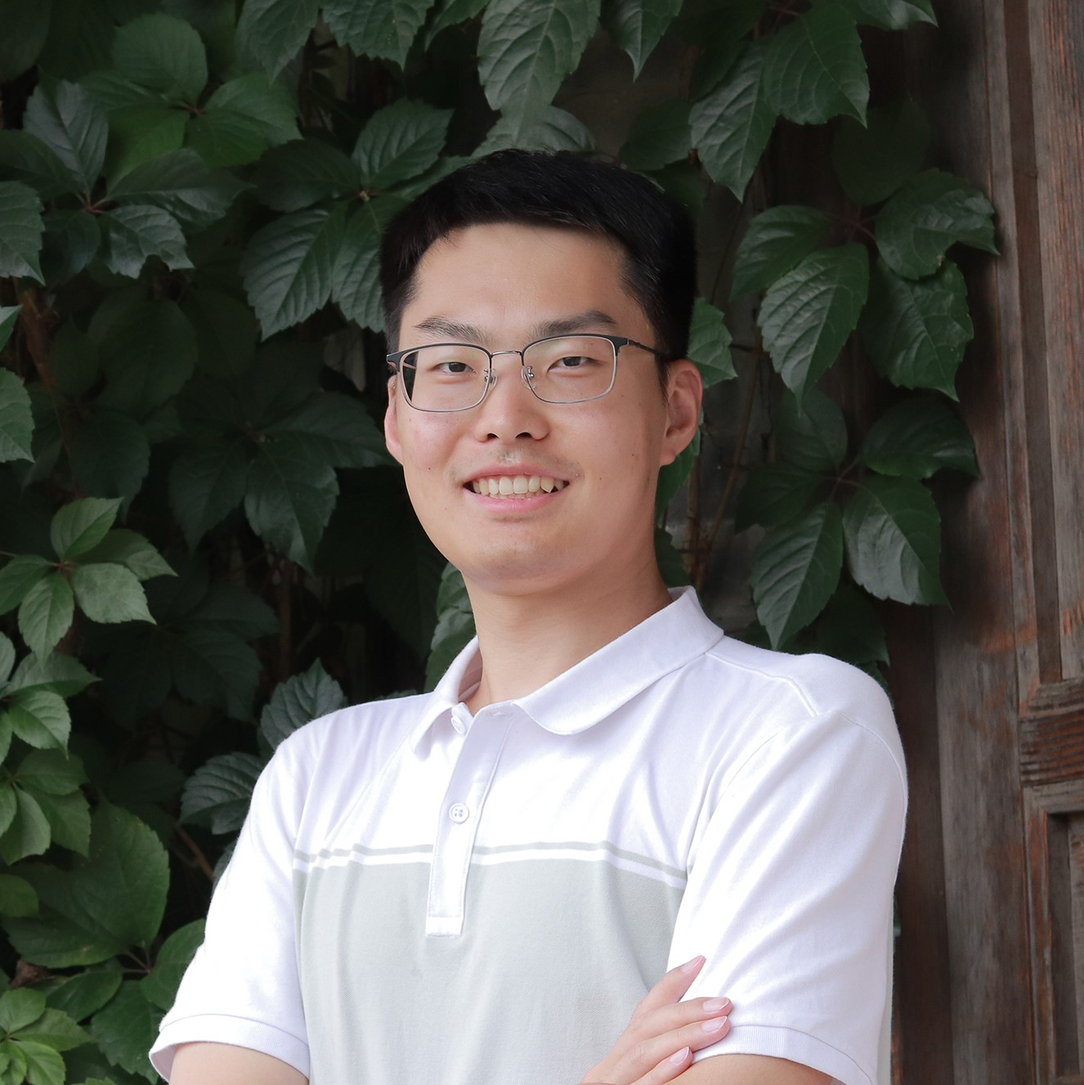
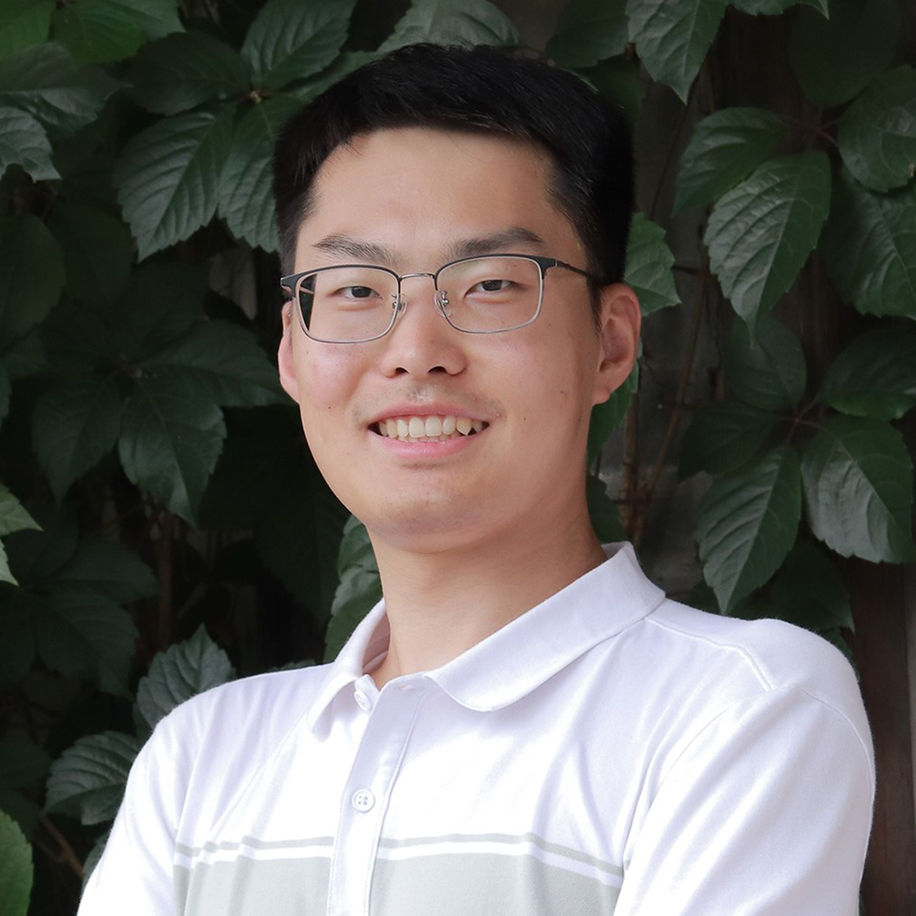
Refine academic homepage layout and profile content

diff --git a/app/globals.css b/app/globals.css
@@ -6,18 +6,28 @@
   /* Typography controls — edit these values to resize the site globally. */
   --font-sans: Arial, Helvetica, sans-serif;
   --font-serif: Georgia, 'Times New Roman', serif;
-  --type-wordmark: 18px;
-  --type-eyebrow: 12px;
-  --type-hero: clamp(52px, 7.1vw, 112px);
-  --type-hero-intro: clamp(18px, 1.55vw, 24px);
-  --type-affiliation: clamp(16px, 1.3vw, 19px);
-  --type-section-title: clamp(36px, 4.4vw, 64px);
-  --type-story-index: 19px;
-  --type-story-tag: 14px;
-  --type-story-body: 19px;
-  --type-publication-title: clamp(19px, 2vw, 28px);
+  --type-wordmark: clamp(18px, 1.25vw, 24px);
+  --type-nav: 16px;
+  --type-eyebrow: clamp(16px, 1.25vw, 20px);
+  --type-hero: clamp(38px, 4vw, 84px);
+  --type-hero-intro: clamp(12px, 1.2vw, 24px);
+  --type-affiliation: clamp(16px, 1.3vw, 24px);
+  --type-research-card-title: clamp(18px, 1.25vw, 36px);
+  --type-section-title: clamp(28px, 3.1vw, 48px);
+  --type-story-index: clamp(19px, 1.25vw, 25px);
+  --type-story-tag: clamp(16px, 1.25vw, 22px);
+  --type-story-body: clamp(19px, 1.25vw, 25px);
+  --type-publication-title: clamp(17px, 1.55vw, 23px);
   --type-publication-authors: 16px;
-  --type-news: clamp(17px, 1.6vw, 22px);
+  --type-news: clamp(15px, 1.25vw, 18px);
+  --type-news-date: clamp(15px, 1.25vw, 18px);
+  --type-contact-title: clamp(34px, 4.3vw, 60px);
+  /* Home-page layout controls — adjust these to reposition the first screen. */
+  --hero-padding-x: clamp(30px, 10vw, 140px);
+  --hero-padding-y: clamp(34px, 5vh, 48px);
+  --hero-column-gap: clamp(20px, 3vw, 40px);
+  --hero-profile-width: 360px;
+  --hero-portrait-width: 280px;
   --background: #f4f7f6;
   --foreground: #102c39;
   --card: #ffffff;
@@ -47,49 +57,62 @@ body { margin: 0; background: var(--background); color: var(--foreground); font-
 a { color: inherit; text-decoration: none; }
 .site-header { position: sticky; top: 0; z-index: 20; height: 76px; display: grid; grid-template-columns: 1fr auto 1fr; align-items: center; padding: 0 clamp(24px, 5vw, 80px); background: color-mix(in srgb, var(--background) 90%, transparent); border-bottom: 1px solid var(--border); backdrop-filter: blur(18px); }
 .wordmark { display: flex; align-items: center; gap: 11px; font-family: var(--font-serif); font-size: var(--type-wordmark); font-weight: 700; }
-.wordmark > span:first-child { display: grid; place-items: center; width: 34px; height: 34px; border-radius: 50%; background: var(--foreground); color: white; font-family: Arial, sans-serif; font-size: 12px; letter-spacing: .08em; }
+.wordmark > span:first-child { display: grid; place-items: center; width: 34px; height: 34px; border-radius: 50%; background: var(--foreground); color: white; font-family: Arial, sans-serif; font-size: 15px; letter-spacing: .08em; }
 .wordmark .wordmark-name { display: inline; width: auto; height: auto; background: transparent; color: var(--foreground); font: inherit; letter-spacing: 0; }
-.wordmark .wordmark-name em { color: #60767b; font-family: Arial, sans-serif; font-size: 13px; font-style: normal; font-weight: 500; }
-nav { display: flex; gap: 30px; font-size: 13px; font-weight: 700; }
+.wordmark .wordmark-name em { color: #60767b; font-family: Arial, sans-serif; font-size: 18px; font-style: normal; font-weight: 500; }
+nav { display: flex; gap: 30px; font-size: var(--type-nav); font-weight: 700; }
 nav a:hover { color: var(--primary); }
 .language-toggle { justify-self: end; display: flex; align-items: center; gap: 7px; padding: 9px 13px; border: 1px solid var(--border); border-radius: 999px; color: var(--foreground); background: transparent; cursor: pointer; font-weight: 700; }
-.hero { min-height: calc(100vh - 76px); display: grid; grid-template-columns: minmax(0, 1fr) minmax(180px, 235px); align-items: center; gap: clamp(42px, 7vw, 110px); padding: 70px clamp(24px, 7vw, 112px); overflow: hidden; }
-.hero-copy { max-width: 820px; }
-.eyebrow { margin: 0 0 20px; color: var(--primary); font-size: var(--type-eyebrow); font-weight: 800; letter-spacing: .16em; text-transform: uppercase; }
-h1 { margin: 0; font-family: var(--font-serif); font-size: var(--type-hero); font-weight: 400; line-height: .92; letter-spacing: -.055em; }
+.hero { height: calc(100svh - 76px); min-height: 620px; display: grid; grid-template-columns: minmax(0, 1fr) minmax(330px, var(--hero-profile-width)); align-items: stretch; gap: var(--hero-column-gap); padding: var(--hero-padding-y) var(--hero-padding-x); overflow: hidden; }
+.hero:has(.hero-bio[open]) { height: auto; min-height: calc(100svh - 76px); overflow: visible; }
+.hero-copy { position: relative; display: flex; flex-direction: column; min-width: 0; max-width: 920px; }
+.eyebrow { margin: 0px 0px 40px ; color: var(--primary); font-size: var(--type-eyebrow); font-weight: 700; letter-spacing: .16em; text-transform: uppercase; }
+.hero .eyebrow { white-space: nowrap; }
+h1 { margin: 0; font-family: var(--font-serif); font-size: var(--type-hero); font-weight: 520; line-height: 1.15; letter-spacing: -.055em; }
 h1 span { display: block; color: var(--primary); }
-.hero-intro { max-width: 660px; margin: 34px 0 0; color: #48656c; font-family: var(--font-serif); font-size: var(--type-hero-intro); line-height: 1.55; }
-.hero-actions { display: flex; flex-wrap: wrap; gap: 12px; margin-top: 34px; }
-.button { display: inline-flex; align-items: center; gap: 9px; padding: 14px 19px; border: 1px solid var(--foreground); border-radius: 3px; font-size: 13px; font-weight: 800; }
+.hero-intro { max-width: 820px; margin: 26px 0 0; color: #48656c; font-family: var(--font-serif); font-size: clamp(14px, 1.05vw, 18px); line-height: 1.48; }
+.hero-intro > p { margin: 0; }
+.hero-bio { margin-top: 14px; font-family: var(--font-sans); }
+.hero-bio summary { display: inline-flex; align-items: center; gap: 9px; color: var(--primary); font-size: 12px; font-weight: 800; cursor: pointer; list-style: none; border-bottom: 1px solid currentColor; padding-bottom: 3px; }
+.hero-bio summary::-webkit-details-marker { display: none; }
+.hero-bio summary span { font-size: 17px; line-height: 1; transition: transform .2s ease; }
+.hero-bio[open] summary span { transform: rotate(45deg); }
+.hero-bio-panel { width: min(100%, 820px); margin-top: 20px; padding: 20px 0 4px; border-top: 1px solid var(--border); }
+.hero-bio-panel p { margin: 0; color: #3f5d64; font-family: var(--font-serif); font-size: 15px; line-height: 1.58; }
+.hero-bio-panel p + p { margin-top: 13px; }
+.hero-actions { display: flex; flex-wrap: wrap; gap: 12px; margin-top: 38px; }
+.button { display: inline-flex; align-items: center; gap: 9px; padding: 14px 19px; border: 1px solid var(--foreground); border-radius: 3px; font-size: 17px; font-weight: 800; }
 .button.primary { background: var(--foreground); color: white; }
 .button.secondary:hover { background: var(--secondary); }
-.affiliation { margin-top: 38px; color: #3e5d64; font-size: var(--type-affiliation); font-weight: 700; line-height: 1.5; }
-.top-links { display: flex; flex-wrap: wrap; gap: 11px 22px; margin-top: 19px; }
-.top-links a { color: var(--primary); font-size: 12px; font-weight: 800; border-bottom: 1px solid transparent; }
+.affiliation { display: flex; flex-direction: column; align-items: flex-start; margin: 50px 0 0; color: #3e5d64; font-size: var(--type-affiliation); font-weight: 700; line-height: 1.5; }
+.affiliation span { white-space: nowrap; }
+.affiliation strong { display: block; margin-top: 12px; color: #294d56; font-size: inherit; font-weight: 800; }
+.top-links { display: flex; flex-wrap: wrap; gap: 11px 22px; margin-top: auto; padding-bottom: 1px; }
+.top-links a { color: var(--primary); font-size: 14px; font-weight: 800; border-bottom: 1px solid transparent; }
 .top-links a:hover { border-color: currentColor; }
-.hero-portrait { position: relative; justify-self: end; width: min(100%, 235px); }
-.portrait-frame { position: relative; padding: 14px 14px 0; border: 1px solid var(--border); background: #dce8e7; }
+.hero-portrait { justify-self: end; display: flex; flex-direction: column; width: min(100%, var(--hero-profile-width)); min-width: 0; padding-top: 110px; transform: none; }
+.portrait-frame { position: relative; width: var(--hero-portrait-width); padding: 7px 7px 0; border: 1px solid var(--border); background: #dce8e7; align-self: center; margin-left: -60px}
 .portrait-frame::before { content: ''; position: absolute; inset: -22px 22px 22px -22px; border: 1px solid #b8cbc8; z-index: -1; }
-.portrait-frame img { display: block; width: 100%; aspect-ratio: 1 / 1.12; object-fit: cover; object-position: center 24%; filter: saturate(.9) contrast(1.02); }
-.research-note { position: absolute; right: -20px; bottom: -42px; width: 190px; padding: 17px; background: #0e3440; color: white; box-shadow: 0 22px 55px rgba(13,50,60,.2); }
-.research-note span { color: #93bfc2; font-size: 10px; letter-spacing: .14em; text-transform: uppercase; }
-.research-note strong { display: block; margin-top: 8px; font-family: Georgia, serif; font-size: 25px; font-weight: 400; }
-.research-note p { margin: 5px 0 0; color: #d5e7e7; font-size: 12px; line-height: 1.5; }
-.research-arc { padding: 110px clamp(24px, 7vw, 112px) 130px; background: #0b2a35; color: #eff7f6; }
+.portrait-frame img { display: block; width: 100%; aspect-ratio: 1 / 1; object-fit: cover; object-position: center 24%; filter: saturate(.95) contrast(1.02); }
+.research-arc { min-height: calc(100svh - 76px); display: flex; flex-direction: column; justify-content: center; padding: clamp(58px, 8vh, 90px) clamp(24px, 7vw, 112px); background: #0b2a35; color: #eff7f6; }
 .research-arc .eyebrow { color: #8fc5c8; }
-.section-heading { display: grid; grid-template-columns: 1fr 2fr; align-items: start; gap: 32px; margin-bottom: 68px; }
-.section-heading h2 { max-width: 760px; margin: 0; font-family: Georgia, serif; font-size: clamp(36px, 4.8vw, 68px); font-weight: 400; line-height: 1.05; letter-spacing: -.035em; }
-.arc-grid { display: grid; grid-template-columns: repeat(4, 1fr); gap: 0; margin: 0; padding: 0; list-style: none; border-top: 1px solid #3b5861; }
-.arc-grid li { min-height: 260px; padding: 24px 28px 30px 0; border-right: 1px solid #3b5861; }
+.section-heading { display: grid; grid-template-columns: 1fr 2fr; align-items: start; gap: 32px; margin-bottom: clamp(38px, 6vh, 58px); }
+.section-heading h2 { max-width: 900px; margin: 0; font-family: Georgia, serif; font-size: var(--type-section-title); font-weight: 400; line-height: 1.08; letter-spacing: -.03em; white-space: nowrap; }
+.arc-grid { display: grid; grid-template-columns: repeat(4, minmax(0, 1fr)); gap: 0; margin: 0; padding: 0; list-style: none; border-top: 1px solid #3b5861; }
+.arc-grid li { min-width: 0; min-height: 230px; padding: 24px 24px 26px; border-right: 1px solid #3b5861; }
+.arc-grid li:first-child { padding-left: 0; }
 .arc-grid li + li { padding-left: 28px; }
 .arc-grid li:last-child { border-right: 0; }
 .arc-grid span { color: #d3a269; font-size: 12px; font-weight: 800; }
-.arc-grid h3 { margin: 70px 0 14px; font-family: Georgia, serif; font-size: 25px; font-weight: 400; }
+.arc-grid h3 { min-height: 2.5em; margin: 54px 0 14px; font-family: Georgia, serif; font-size: var(--type-research-card-title); font-weight: 700; line-height: 1.25; letter-spacing: -.015em; text-wrap: balance; }
 .arc-grid p { margin: 0; color: #adc2c5; font-size: 14px; line-height: 1.65; }
 @media (max-width: 900px) {
   .site-header { grid-template-columns: 1fr auto; } nav { display: none; }
-  .hero { grid-template-columns: 1fr; padding-top: 56px; padding-bottom: 110px; }
-  .hero-portrait { justify-self: center; width: min(82vw, 430px); margin-top: 20px; }
+  .hero { height: auto; min-height: calc(100svh - 76px); grid-template-columns: 1fr; padding-top: 56px; padding-bottom: 80px; overflow: visible; }
+  .hero-portrait { justify-self: center; width: min(82vw, 390px); margin-top: 20px; }
+  .hero .eyebrow { white-space: normal; }
+  .top-links { margin-top: 24px; }
+  .hero-bio-panel { position: static; width: 100%; max-height: none; margin-top: 12px; }
   .section-heading { grid-template-columns: 1fr; }
   .arc-grid { grid-template-columns: repeat(2, 1fr); }
   .arc-grid li:nth-child(2) { border-right: 0; }
@@ -100,46 +123,44 @@ h1 span { display: block; color: var(--primary); }
   .site-header { height: 68px; padding-inline: 18px; }
   .wordmark { font-size: 15px; } .wordmark > span:first-child { width: 30px; height: 30px; }
   .hero { padding-inline: 20px; } h1 { font-size: clamp(48px, 15vw, 68px); }
-  .research-note { right: -8px; bottom: -58px; }
   .research-arc { padding-inline: 20px; }
   .arc-grid { grid-template-columns: 1fr; }
   .arc-grid li, .arc-grid li + li { padding-left: 0; border-right: 0; border-top: 1px solid #3b5861; }
   .arc-grid li:first-child { border-top: 0; }
 }
 
-.research-stories { padding: 40px clamp(24px, 7vw, 112px) 120px; background: #f4f7f6; }
-.story { display: grid; grid-template-columns: minmax(230px, .72fr) minmax(0, 2fr); gap: clamp(40px, 6vw, 86px); max-width: 1220px; margin: 0 auto; padding: 92px 0; border-bottom: 1px solid var(--border); }
+.research-stories { padding: 0 clamp(24px, 7vw, 112px); background: #f4f7f6; }
+.story { min-height: calc((100svh - 76px) / 2); display: grid; grid-template-columns: minmax(210px, .62fr) minmax(0, 2fr); align-items: center; gap: clamp(34px, 5vw, 68px); max-width: 1220px; margin: 0 auto; padding: clamp(28px, 4vh, 40px) 0; border-bottom: 1px solid var(--border); }
 .story-side { min-width: 0; }
 .story-index { display: flex; align-items: flex-start; gap: 18px; color: #b47a43; font-size: var(--type-story-index); font-weight: 800; }
 .story-index i { display: block; width: 82px; height: 1px; margin-top: 10px; background: #b47a43; }
-.story-figure { display: block; width: 100%; max-height: 230px; margin-top: 34px; border: 1px solid #cad9d7; background: white; object-fit: contain; }
-.story-side > small { display: block; margin-top: 10px; color: #71868a; font-size: 10px; line-height: 1.4; }
+.story-figure { display: block; width: 100%; max-height: 165px; margin-top: 20px; border: 1px solid #cad9d7; background: white; object-fit: contain; }
 .story-copy { max-width: 850px; }
-.story-tag { margin: 0 0 22px; color: #526d73; font-size: var(--type-story-tag); font-weight: 800; letter-spacing: .1em; text-transform: uppercase; }
+.story-tag { margin: 0 0 13px; color: #526d73; font-size: var(--type-story-tag); font-weight: 800; letter-spacing: .1em; text-transform: uppercase; }
 .story-copy h2, .publications h2, .news h2, .contact h2 { margin: 0; font-family: var(--font-serif); font-size: var(--type-section-title); font-weight: 400; line-height: 1.05; letter-spacing: -.035em; }
-.story-copy > p:not(.story-tag) { max-width: 760px; margin: 25px 0; color: #526c72; font-family: var(--font-serif); font-size: var(--type-story-body); line-height: 1.7; }
+.story-copy > p:not(.story-tag) { max-width: 760px; margin: 15px 0; color: #526c72; font-family: var(--font-serif); font-size: var(--type-story-body); line-height: 1.55; }
 .story-copy a, .text-link { display: inline-flex; align-items: center; gap: 7px; color: var(--primary); font-size: 13px; font-weight: 800; border-bottom: 1px solid currentColor; padding-bottom: 4px; }
 
-.publications { padding: 120px clamp(24px, 7vw, 112px); background: #e7efee; }
+.publications { min-height: calc(100svh - 76px); padding: clamp(58px, 7vh, 84px) clamp(24px, 7vw, 112px); background: #e7efee; }
 .section-heading.light { margin-bottom: 55px; }
 .section-heading.light > div > p { max-width: 600px; margin: 22px 0 0; color: #5c7479; font-size: 15px; line-height: 1.65; }
 .paper-list { border-top: 1px solid #b8cbc8; }
-.paper { display: grid; grid-template-columns: 170px minmax(0, 1fr) auto; gap: 34px; padding: 34px 10px 34px 0; border-bottom: 1px solid #b8cbc8; transition: padding .2s ease, background .2s ease; }
+.paper { display: grid; grid-template-columns: 135px minmax(0, 1fr) auto; gap: 24px; padding: 18px 10px 18px 0; border-bottom: 1px solid #b8cbc8; transition: padding .2s ease, background .2s ease; }
 .paper:hover { padding-left: 14px; background: rgba(255,255,255,.38); }
 .paper > div:first-child { display: flex; flex-direction: column; gap: 8px; }
 .paper span { color: #9b6738; font-size: 14px; font-weight: 800; }
 .paper small { color: #536f75; font-size: 12px; font-weight: 700; letter-spacing: .06em; text-transform: uppercase; }
-.paper h3 { max-width: 900px; margin: 0; font-family: var(--font-serif); font-size: var(--type-publication-title); font-weight: 400; line-height: 1.28; }
-.paper p { margin: 15px 0 9px; color: #49666d; font-size: var(--type-publication-authors); line-height: 1.5; }
+.paper h3 { max-width: 900px; margin: 0; font-family: var(--font-serif); font-size: var(--type-publication-title); font-weight: 400; line-height: 1.24; }
+.paper p { margin: 10px 0 6px; color: #49666d; font-size: var(--type-publication-authors); line-height: 1.4; }
 .paper p b { color: #173b45; font-weight: 900; }
 .paper strong { color: #244751; font-size: 15px; }
 .paper > svg { margin-top: 5px; }
 .publications .text-link { margin-top: 36px; }
 
-.news { padding: 120px clamp(24px, 7vw, 112px); background: #f4f7f6; }
+.news { min-height: calc(100svh - 76px); padding: clamp(58px, 8vh, 90px) clamp(24px, 7vw, 112px); background: #f4f7f6; }
 .news-list { border-top: 1px solid var(--border); }
-.news-item { display: grid; grid-template-columns: 180px minmax(0, 1fr) 30px; gap: 28px; align-items: center; padding: 27px 0; border-bottom: 1px solid var(--border); }
-.news-item time { color: #9b6738; font-size: 11px; font-weight: 800; letter-spacing: .09em; }
+.news-item { display: grid; grid-template-columns: 180px minmax(0, 1fr) 30px; gap: 28px; align-items: center; padding: 22px 0; border-bottom: 1px solid var(--border); }
+.news-item time { color: #9b6738; font-size: var(--type-news-date); font-weight: 800; letter-spacing: .07em; }
 .news-item p { margin: 0; font-family: var(--font-serif); font-size: var(--type-news); line-height: 1.45; }
 .news-item a { color: var(--primary); }
 .earlier-news summary { display: inline-flex; align-items: center; gap: 10px; margin-top: 28px; color: var(--primary); font-size: 13px; font-weight: 800; cursor: pointer; list-style: none; border-bottom: 1px solid currentColor; padding-bottom: 4px; }
@@ -148,9 +169,9 @@ h1 span { display: block; color: var(--primary); }
 .earlier-news[open] summary span { transform: rotate(45deg); }
 .earlier-news > div { margin-top: 18px; border-top: 1px solid var(--border); }
 
-.contact { padding: 120px clamp(24px, 7vw, 112px) 70px; background: #092631; color: #f1f7f6; }
+.contact { min-height: calc(100svh - 76px); display: flex; flex-direction: column; justify-content: center; padding: clamp(58px, 8vh, 90px) clamp(24px, 7vw, 112px); background: #092631; color: #f1f7f6; }
 .contact .eyebrow { color: #8fc5c8; }
-.contact h2 { max-width: 920px; font-size: clamp(45px, 6.4vw, 92px); }
+.contact h2 { max-width: 920px; font-size: var(--type-contact-title); }
 .email { display: inline-flex; align-items: center; gap: 12px; margin: 54px 0 80px; padding-bottom: 7px; border-bottom: 1px solid #85b8bd; color: #b7d9db; font-size: clamp(18px, 2vw, 27px); }
 .contact-grid { display: grid; grid-template-columns: 1fr 1fr; gap: 30px; padding-top: 30px; border-top: 1px solid #34505a; }
 .contact-grid p { margin: 0; color: #a8bfc2; font-size: 13px; line-height: 1.7; }
@@ -158,7 +179,7 @@ h1 span { display: block; color: var(--primary); }
 footer { display: flex; justify-content: space-between; gap: 20px; padding: 25px clamp(24px, 7vw, 112px); background: #061b24; color: #8ca6aa; font-size: 10px; letter-spacing: .1em; text-transform: uppercase; }
 
 @media (max-width: 720px) {
-  .story { grid-template-columns: 1fr; gap: 24px; padding: 68px 0; }
+  .story { min-height: auto; grid-template-columns: 1fr; gap: 24px; padding: 54px 0; }
   .paper { grid-template-columns: 90px minmax(0, 1fr) auto; gap: 16px; }
   .paper small { display: none; }
   .news-item { grid-template-columns: 90px minmax(0, 1fr) 24px; gap: 14px; }
@@ -174,8 +195,8 @@ footer { display: flex; justify-content: space-between; gap: 20px; padding: 25px
   footer { flex-direction: column; }
 }
 
-.overview-figure { margin: 0; padding: 72px clamp(24px, 7vw, 112px); background: #0b2a35; color: white; }
-.overview-figure img { display: block; width: auto; max-width: min(100%, 1120px); max-height: 68vh; margin: 0 auto; border: 1px solid #31515b; box-shadow: 0 28px 80px rgba(0,0,0,.22); object-fit: contain; }
+.overview-figure { min-height: calc(100svh - 76px); display: flex; flex-direction: column; justify-content: center; margin: 0; padding: clamp(42px, 6vh, 68px) clamp(24px, 7vw, 112px); background: #0b2a35; color: white; }
+.overview-figure img { display: block; width: auto; max-width: min(100%, 1040px); max-height: 62vh; margin: 0 auto; border: 1px solid #31515b; box-shadow: 0 28px 80px rgba(0,0,0,.22); object-fit: contain; }
 .overview-figure figcaption { display: grid; grid-template-columns: 180px minmax(0, 740px); gap: 28px; max-width: 1120px; margin: 24px auto 0; color: #b6cacc; font-size: 13px; line-height: 1.65; }
 .overview-figure figcaption span { color: #d3a269; font-size: 11px; font-weight: 800; letter-spacing: .12em; text-transform: uppercase; }
 
@@ -197,7 +218,17 @@ footer { display: flex; justify-content: space-between; gap: 20px; padding: 25px
 
 @media (max-width: 900px) {
   .wordmark .wordmark-name em { display: none; }
-  .hero-portrait { width: min(58vw, 235px); }
+}
+
+@media (max-width: 1180px) {
+  .arc-grid h3 { white-space: normal; }
+  .section-heading h2 { white-space: normal; }
+}
+
+/* Keep the profile near the right edge in smaller desktop windows,
+   then pull it inward on wide screens to reduce the empty center gap. */
+@media (min-width: 1600px) {
+  .hero-portrait { transform: translateX(clamp(-140px, -6vw, -70px)); }
 }
 
 @media (max-width: 620px) {

diff --git a/app/page.tsx b/app/page.tsx
@@ -13,7 +13,7 @@ const research = [
     en: 'Size-resolved East Asian dust INPs',
     zh: '东亚沙尘冰核的粒径分布',
     enBody: 'The first size-resolved measurements of airborne Asian dust INPs, linking particle diameter to INP abundance and ice-active-site density across −35 to −6 °C.',
-    zhBody: '首次对东亚沙尘事件中的大气冰核开展分粒径测量，揭示粒径对冰核浓度和表面冰活性位点密度的控制，并建立适用于 −35 至 −6 °C 的参数化。',
+    zhBody: '首次对东亚沙尘事件中的大气冰核开展分粒径测量，揭示粒径对冰核浓度和表面冰活性位点密度的影响，并建立适用于 −35 至 −6 °C 的参数化。',
     tag: 'Atmospheric Chemistry and Physics · 2021',
     link: 'https://doi.org/10.5194/acp-21-3491-2021',
     image: '/research-01-size-resolved.png',
@@ -24,7 +24,7 @@ const research = [
     en: 'Chemical aging during dust transport',
     zh: '沙尘输送过程中的化学老化',
     enBody: 'Two field campaigns traced dust over roughly 1,000 km. Integrated chemical, morphological, and freezing measurements showed that atmospheric modification did not suppress its ice-nucleating activity.',
-    zhBody: '通过两次外场观测追踪约 1,000 km 长距离输送的沙尘，结合化学组成、形貌和冻结测量，发现大气化学改性并未削弱东亚沙尘的冰核活性。',
+    zhBody: '通过两次外场观测追踪约 1,000 km 长距离输送的沙尘，结合化学组成、形貌和浸润冻结冰核测量，发现大气化学老化并未显著削弱东亚沙尘的冰核活性。',
     tag: 'Science of the Total Environment · 2023',
     link: 'https://doi.org/10.1016/j.scitotenv.2022.160708',
     image: '/research-02-aged-dust.jpg',
@@ -85,23 +85,31 @@ export default function Home() {
 
       <section id="home" className="hero">
         <div className="hero-copy">
-          <p className="eyebrow">{zh ? '大气科学 · 冰核粒子 · 气溶胶—云相互作用' : 'Atmospheric science · ice-nucleating particles · aerosol–cloud interactions'}</p>
+          <p className="eyebrow">{zh ? '气溶胶 · 冰核 · 气溶胶—云相互作用' : 'Aerosols · ice-nucleating particles · aerosol–cloud interactions'}</p>
           <h1>{zh ? '从大气粒子到' : 'From atmospheric particles'}<span>{zh ? '云冰与气候。' : 'to cloud ice and climate.'}</span></h1>
-          <p className="hero-intro">{zh ? '我研究气溶胶如何触发冰形成，以及这些微观过程如何改变云、降水与地球辐射平衡。' : 'I investigate how aerosols initiate ice formation—and how these microscopic events reshape clouds, precipitation, and Earth’s radiation balance.'}</p>
+          <div className="hero-intro">
+            <p>{zh ? '研究气溶胶如何作为冰核触发云冰形成，以及这些微观过程如何改变云、降水与地球辐射平衡。' : 'Jingchuan Chen is a Postdoctoral Research Associate at Texas A&M University. His research centers on aerosol–cloud interactions, with a particular focus on how ice-nucleating particles trigger cloud ice formation and shape cloud and climate processes. He integrates laboratory experiments, field observations, aerosol physicochemical characterization, satellite and reanalysis data, and parameterization development to uncover the factors controlling atmospheric ice nucleation and to translate these insights into improved representations of aerosol–cloud interactions.'}</p>
+            {!zh && <details className="hero-bio">
+              <summary>Read full profile <span>+</span></summary>
+              <div className="hero-bio-panel">
+                <p>Jingchuan received his Ph.D. in Environmental Sciences from Peking University in 2024. During his Ph.D., he investigated the ice-nucleating activity of East Asian dust through laboratory measurements, field observations, aerosol physicochemical characterization, parameterization development, and large-scale atmospheric analyses. His work clarified how particle size, chemical composition, atmospheric aging, and long-range transport influence the abundance and ice-nucleating properties of dust aerosols. He further integrated field observations with satellite and reanalysis data to investigate how changes in dust abundance influence cloud ice formation and radiative effects over the Tibetan Plateau.</p>
+                <p>He is particularly passionate about developing new experimental methods and quantitative approaches for aerosol research and translating fundamental scientific questions into new measurement capabilities. At Texas A&amp;M, he is extending his research to poorly constrained ice-nucleation pathways. He developed the Cold-stage system for Impact-initiated Contact freezing Experiments (C-ICE) to quantitatively investigate collision-triggered ice nucleation. His broader goal is to integrate innovative measurements, laboratory experiments, field and satellite observations, and parameterization development to improve the understanding and representation of aerosol–cloud interactions.</p>
+              </div>
+            </details>}
+          </div>
           <div className="hero-actions">
             <a className="button primary" href="#research">{zh ? '探索研究' : 'Explore research'} <ArrowDownRight size={18} /></a>
           </div>
-          <p className="affiliation">{zh ? '博士后研究员 · 德州农工大学大气科学系' : 'Postdoctoral Research Associate · Department of Atmospheric Sciences, Texas A&M University'}</p>
           <div className="top-links" aria-label="Academic profiles">
             <a href="https://scholar.google.com/citations?user=BCubDWQAAAAJ&hl=en" target="_blank" rel="noreferrer">Google Scholar ↗</a>
             <a href="https://orcid.org/0000-0002-5200-982X" target="_blank" rel="noreferrer">ORCID ↗</a>
-            <a href="https://github.com/JingchuanChen" target="_blank" rel="noreferrer">GitHub ↗</a>
+            <a href="https://github.com/Jingchuan-Chen" target="_blank" rel="noreferrer">GitHub ↗</a>
             <a href="https://artsci.tamu.edu/atmos-science/contact/profiles/jingchuan-chen.html" target="_blank" rel="noreferrer">Texas A&amp;M ↗</a>
           </div>
         </div>
         <div className="hero-portrait">
           <div className="portrait-frame"><img src="/jingchuan-chen-hd.jpg" alt="Portrait of Jingchuan Chen" /></div>
-          <div className="research-note"><span>Current focus / 04</span><strong>C-ICE</strong><p>{zh ? '碰撞触发的接触冻结' : 'Impact-initiated contact freezing'}</p></div>
+          <p className="affiliation">{zh ? <><span>博士后研究员</span><span>大气科学系</span><strong>德州农工大学</strong></> : <><span>Postdoctoral Research Associate</span><span>Department of Atmospheric Sciences</span><strong>Texas A&amp;M University</strong></>}</p>
         </div>
       </section>
 
@@ -123,7 +131,6 @@ export default function Home() {
             <div className="story-side">
               <div className="story-index"><span>{item.n}</span><i /></div>
               <img className="story-figure" src={item.image} alt={item.imageAlt} />
-              <small>{zh ? '选自对应论文；可替换' : 'From the corresponding paper · replaceable'}</small>
             </div>
             <div className="story-copy">
               <p className="story-tag">{item.tag}</p>
@@ -187,7 +194,7 @@ export default function Home() {
           <div className="social-links">
             <a href="https://scholar.google.com/citations?user=BCubDWQAAAAJ&hl=en" target="_blank" rel="noreferrer">Google Scholar ↗</a>
             <a href="https://orcid.org/0000-0002-5200-982X" target="_blank" rel="noreferrer">ORCID ↗</a>
-            <a href="https://github.com/JingchuanChen" target="_blank" rel="noreferrer">GitHub ↗</a>
+            <a href="https://github.com/Jingchuan-Chen" target="_blank" rel="noreferrer">GitHub ↗</a>
             <a href="https://artsci.tamu.edu/atmos-science/contact/profiles/jingchuan-chen.html" target="_blank" rel="noreferrer">Texas A&M ↗</a>
           </div>
         </div>
